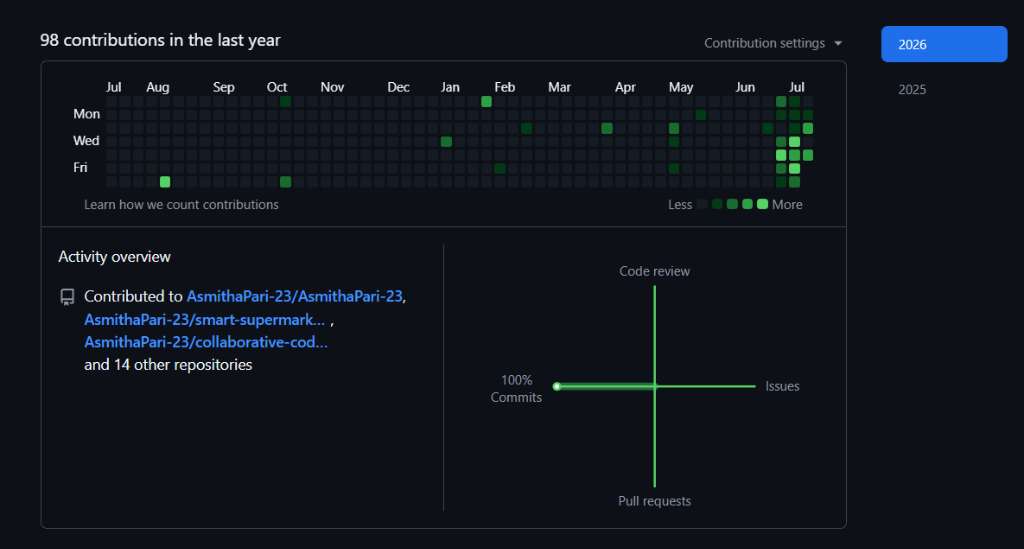
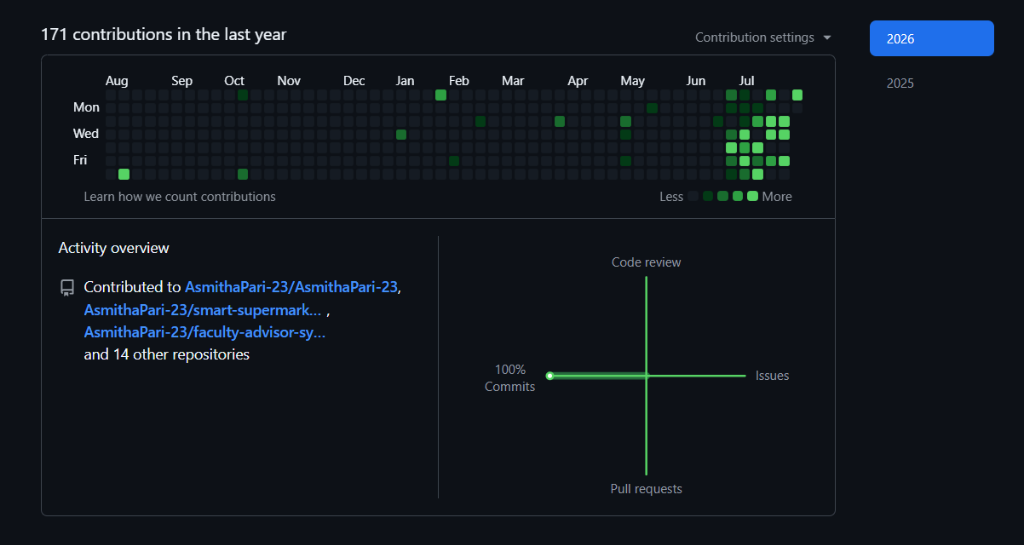
Update project 1 image, github activity image, and leetcode problem count

diff --git a/src/components/GithubLeetcodeSection.jsx b/src/components/GithubLeetcodeSection.jsx
@@ -130,7 +130,7 @@ export default function GithubLeetcodeSection() {
 
               <div className="flex justify-between items-center py-2 border-y border-portfolio-border/40 font-space text-xs">
                 <span className="text-portfolio-secondary">PROBLEMS RESOLVED</span>
-                <span className="text-portfolio-primary font-bold">150+ SOLVED</span>
+                <span className="text-portfolio-primary font-bold">200+ SOLVED</span>
               </div>
 
               <div className="pt-2">
